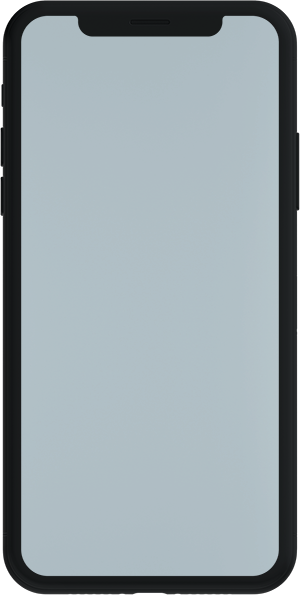
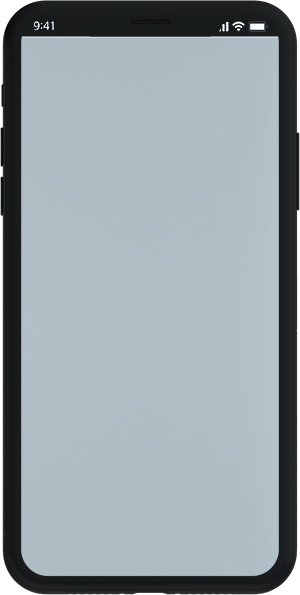
목업 수정

Changed region(s): [[0.06, 0.0, 0.3, 0.0908], [0.72, 0.0, 0.93, 0.0908]]

diff --git a/index.html b/index.html
@@ -14,7 +14,7 @@
     <title>ORYANY | 오야니</title>
     <style>
         body{height:100vh; background-color: rgb(131, 131, 131); margin:0; padding:0}
-        .phone{width:434px; height:862px; position:absolute; left:50%; top:50%; transform: translate(-50%,-50%); background:url(phone2.png) no-repeat; background-size:100%;}
+        .phone{width:434px; height:862px; position:absolute; left:50%; top:50%; transform: translate(-50%,-50%); background:url(phone.png) no-repeat; background-size:100%;}
         .content{width:375px; height:782px; position:absolute; left:29px; top:52px; background-color: rgba(255,255,255); overflow:hidden; border-radius:0 0 40px 40px;}
         iframe{width:100%; height:100%;}
     </style>
